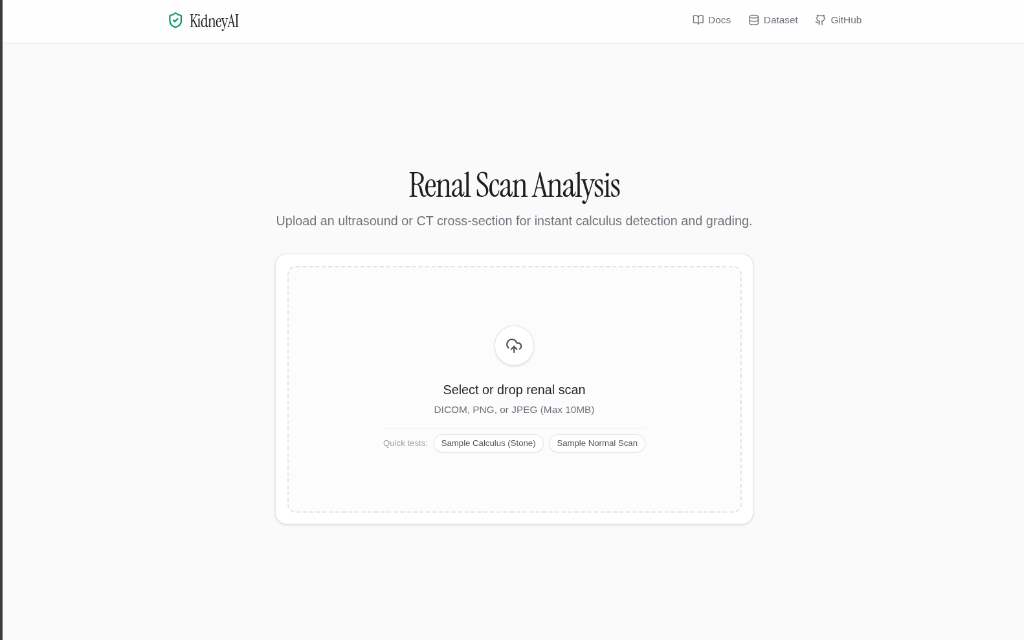
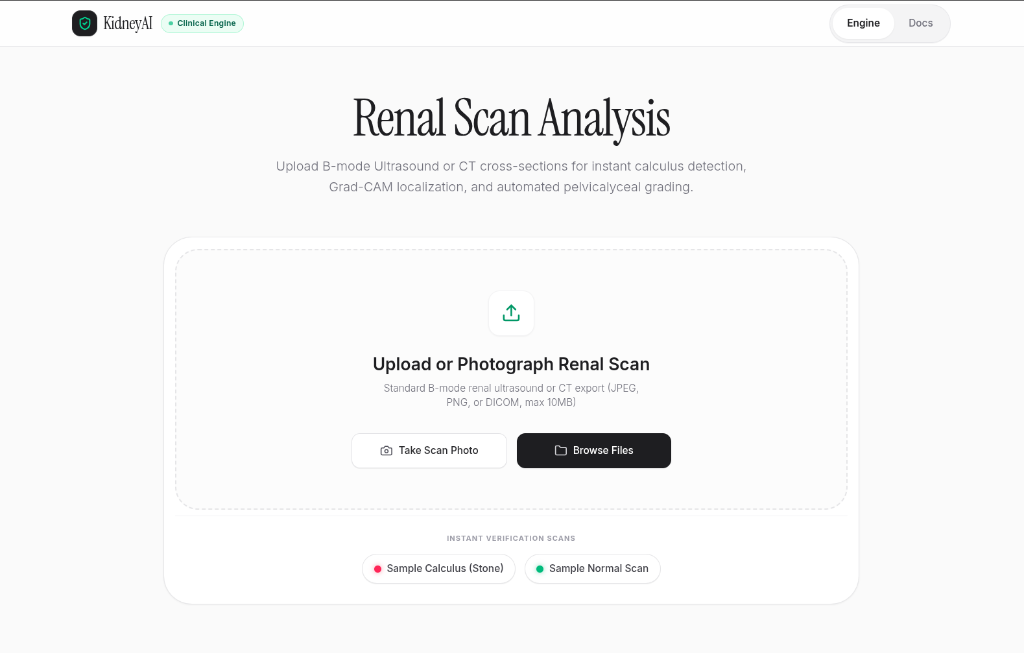
feat(ui/docs): update hero image, add model limitation notices to frontend engine & docs, connect live HF backend

diff --git a/frontend/src/components/DocsTab.tsx b/frontend/src/components/DocsTab.tsx
@@ -46,6 +46,32 @@ export const DocsTab: React.FC = () => {
           Learn how acoustic impedance physics, Out-of-Distribution modality guards, MobileNetV2
           bottlenecks, and Grad-CAM explainability unite to detect renal calculi with 98.87% accuracy.
         </p>
+
+        {/* Important Model Limitation Banner */}
+        <div className="mt-8 bg-amber-500/10 border border-amber-500/30 rounded-3xl p-5 sm:p-6 text-zinc-800 shadow-2xs">
+          <div className="flex items-start gap-3.5">
+            <div className="w-9 h-9 rounded-xl bg-amber-500/20 text-amber-700 flex items-center justify-center shrink-0 mt-0.5">
+              <AlertTriangle size={20} />
+            </div>
+            <div className="space-y-1.5 flex-1">
+              <div className="flex flex-wrap items-center gap-2">
+                <h4 className="text-sm font-semibold text-zinc-900">
+                  Critical Scope & Diagnostic Limitations
+                </h4>
+                <span className="px-2 py-0.5 rounded-full bg-amber-200/80 text-amber-900 text-[10px] font-mono font-medium">
+                  Binary Classifier Only (Stone vs. No Stone)
+                </span>
+                <span className="px-2 py-0.5 rounded-full bg-rose-100 text-rose-800 text-[10px] font-mono font-medium">
+                  Not a General Organ Scanner
+                </span>
+              </div>
+              <p className="text-xs text-zinc-600 leading-relaxed font-light">
+                NephroScan AI is trained <strong>strictly on two classes: Healthy Ultrasound vs. Kidney Stone Ultrasound</strong>. 
+                Because deep learning models operate under a <em>closed-world assumption</em>, the model <strong>cannot identify unknown objects</strong>, cysts, tumors, or other organs. Feeding it dark-mode laptop/terminal screenshots will cause false positive stone detections because white text characters mimic hyperechoic calculus reflections.
+              </p>
+            </div>
+          </div>
+        </div>
       </motion.div>
 
       {/* GitHub & Kaggle Repository Cards (Prominently placed in Docs) */}
@@ -540,6 +566,68 @@ npm run dev`}</pre>
               Access the clinical dashboard at <code className="bg-zinc-100 px-1.5 py-0.5 rounded text-zinc-800 font-mono">http://localhost:3000</code>.
             </p>
           </div>
+        </div>
+      </motion.section>
+
+      {/* SECTION 6: Model Limitations & Out-Of-Distribution (OOD) Behavior */}
+      <motion.section variants={fadeUp} className="mb-16">
+        <div className="flex items-center gap-2 mb-2 text-rose-600 font-mono text-xs tracking-wider uppercase font-semibold">
+          <span>06</span>
+          <span>•</span>
+          <span>Failure Modes & Limitations</span>
+        </div>
+        <h2 className="text-3xl sm:text-4xl font-serif text-zinc-900 pb-3 border-b border-zinc-200 mb-6">
+          6. Model Limitations & Out-Of-Distribution (OOD) Failure Modes
+        </h2>
+
+        <p className="text-sm sm:text-base text-zinc-700 font-light leading-relaxed mb-6">
+          In clinical machine learning, communicating what a model <strong>cannot</strong> do is as vital as publishing its accuracy metrics.
+          NephroScan AI is an assistive research CADe prototype with explicit operational boundaries:
+        </p>
+
+        <div className="grid grid-cols-1 md:grid-cols-3 gap-4 mb-8">
+          <div className="bg-white p-6 rounded-3xl border border-zinc-200/90 shadow-2xs">
+            <div className="w-10 h-10 rounded-xl bg-amber-50 text-amber-700 flex items-center justify-center mb-3">
+              <AlertTriangle size={20} />
+            </div>
+            <h4 className="font-semibold text-zinc-900 mb-2 text-sm">Binary Closed-World Scope</h4>
+            <p className="text-xs text-zinc-600 font-light leading-relaxed">
+              Trained exclusively to separate <em>Calculus</em> from <em>Normal Renal Ultrasound</em>. It has never seen other abdominal organs (liver, gallbladder, spleen), and lacks open-world anomaly rejection.
+            </p>
+          </div>
+
+          <div className="bg-white p-6 rounded-3xl border border-zinc-200/90 shadow-2xs">
+            <div className="w-10 h-10 rounded-xl bg-rose-50 text-rose-700 flex items-center justify-center mb-3">
+              <ShieldAlert size={20} />
+            </div>
+            <h4 className="font-semibold text-zinc-900 mb-2 text-sm">Laptop Screenshot Artifacts</h4>
+            <p className="text-xs text-zinc-600 font-light leading-relaxed">
+              Dark-mode terminals and IDEs feature bright white text against black backdrops. To convolutional filters, this high-contrast gradient pattern is mathematically identical to hyperechoic calculi, triggering false positives.
+            </p>
+          </div>
+
+          <div className="bg-white p-6 rounded-3xl border border-zinc-200/90 shadow-2xs">
+            <div className="w-10 h-10 rounded-xl bg-emerald-50 text-emerald-700 flex items-center justify-center mb-3">
+              <ShieldCheck size={20} />
+            </div>
+            <h4 className="font-semibold text-zinc-900 mb-2 text-sm">Modality Guard Protection</h4>
+            <p className="text-xs text-zinc-600 font-light leading-relaxed">
+              General colorful photos (beaches, wallpapers, landscapes) are intercepted by acoustic chromaticity filters (mean saturation &gt; 0.22, RGB divergence &gt; 25.0) and rejected before reaching the CNN.
+            </p>
+          </div>
+        </div>
+
+        <div className="bg-zinc-900 text-zinc-200 rounded-3xl p-6 sm:p-8 font-light text-xs sm:text-sm leading-relaxed border border-zinc-800">
+          <h4 className="font-semibold text-white mb-2 text-base flex items-center gap-2">
+            <BookOpen size={18} className="text-emerald-400" />
+            Key Clinical Takeaway for Evaluators
+          </h4>
+          <p className="mb-3 text-zinc-300">
+            Never feed non-medical computer screenshots, non-renal CTs, or arbitrary camera photos to the model. Always inspect the <strong>Grad-CAM visual explanation</strong>: in an authentic scan, the activation focus must map anatomically to the renal pelvis, calyces, or parenchyma.
+          </p>
+          <p className="text-zinc-400 text-xs">
+            NephroScan AI is not an FDA 510(k) cleared diagnostic device. Output must always be interpreted in conjunction with patient symptoms, laboratory analysis, and expert physician evaluation.
+          </p>
         </div>
       </motion.section>
     </motion.div>

diff --git a/frontend/src/components/EngineTab.tsx b/frontend/src/components/EngineTab.tsx
@@ -52,7 +52,7 @@ export const EngineTab: React.FC = () => {
   const fileInputRef = useRef<HTMLInputElement>(null);
   const cameraInputRef = useRef<HTMLInputElement>(null);
 
-  const API_BASE = process.env.NEXT_PUBLIC_API_URL || "http://localhost:8000";
+  const API_BASE = process.env.NEXT_PUBLIC_API_URL || "https://bappa-ai-kidney-stone-detection.hf.space";
 
   // Synthesized tactile audio cue
   const playSound = (type: "click" | "resolve") => {
@@ -726,6 +726,46 @@ validated by a board-certified radiologist or urologist.
             </motion.div>
           )}
         </AnimatePresence>
+
+        {/* Model Scope & Diagnostic Limitations Box */}
+        <motion.div
+          variants={fadeUp}
+          className="mt-8 bg-amber-500/10 border border-amber-500/30 rounded-3xl p-5 sm:p-6 text-zinc-800 shadow-2xs"
+        >
+          <div className="flex items-start gap-3.5">
+            <div className="w-9 h-9 rounded-xl bg-amber-500/20 text-amber-700 flex items-center justify-center shrink-0 mt-0.5">
+              <AlertTriangle size={20} />
+            </div>
+            <div className="space-y-2 flex-1">
+              <div className="flex flex-wrap items-center gap-2">
+                <h4 className="text-sm font-semibold text-zinc-900">
+                  Critical Model Scope & Limitations Advisory
+                </h4>
+                <span className="px-2 py-0.5 rounded-full bg-amber-200/80 text-amber-900 text-[10px] font-mono font-medium">
+                  Binary Classification Only
+                </span>
+                <span className="px-2 py-0.5 rounded-full bg-zinc-200/80 text-zinc-700 text-[10px] font-mono font-medium">
+                  Not a General Organ Scanner
+                </span>
+              </div>
+              <p className="text-xs text-zinc-600 leading-relaxed font-light">
+                <strong>Closed-World Binary Assumption:</strong> This deep learning network is specifically trained to classify 
+                <strong> only two states</strong>: <em>Healthy Kidney Ultrasound</em> vs. <em>Renal Calculus (Kidney Stone)</em>. 
+                It is <strong>not</strong> a broad medical vision model and cannot detect renal cysts, oncocytomas, carcinoma, hydronephrosis etiologies, or general abdominal organs.
+              </p>
+              <div className="grid grid-cols-1 sm:grid-cols-2 gap-2 pt-1 text-[11px] text-zinc-600 font-light">
+                <div className="bg-white/85 p-3 rounded-2xl border border-amber-200/70 shadow-2xs">
+                  <span className="font-semibold text-rose-700 block mb-0.5">⚠ Dark Laptop / Terminal False Positives:</span>
+                  Screenshots of code editors, terminals, or dark-mode operating systems with bright white text characters mimic hyperechoic calcium reflections. Because the model has no concept of &quot;computer screens&quot;, it will erroneously output a 100% stone detection.
+                </div>
+                <div className="bg-white/85 p-3 rounded-2xl border border-amber-200/70 shadow-2xs">
+                  <span className="font-semibold text-emerald-700 block mb-0.5">🛡 Automated Photo Interception:</span>
+                  Colorful photographs (nature wallpapers, beaches, human portraits) are automatically intercepted and rejected by the built-in acoustic modality guard before classification.
+                </div>
+              </div>
+            </div>
+          </div>
+        </motion.div>
       </motion.div>
     </motion.div>
   );

diff --git a/README.md b/README.md
@@ -16,10 +16,11 @@
 [![Kaggle Dataset](https://img.shields.io/badge/Kaggle-Dataset-20BEFF.svg?logo=kaggle&logoColor=white)](https://www.kaggle.com/datasets/jayaprakashpondy/kidney-cancer-image)
 
 <p align="center">
-  <a href="https://kidneystonedetection.vercel.app"><strong>🌐 Live Clinical Web App (Vercel)</strong></a> •
-  <a href="https://huggingface.co/spaces/bappa-ai/kidney-stone-detection"><strong>🤗 Live Hugging Face Space</strong></a> •
-  <a href="https://bappa-ai-kidney-stone-detection.hf.space"><strong>⚡ Cloud Model API</strong></a> •
-  <a href="https://www.kaggle.com/datasets/jayaprakashpondy/kidney-cancer-image"><strong>📊 Kaggle Dataset</strong></a>
+  <a href="https://kidneystonedetection.vercel.app"><strong>🌐 Primary Live App</strong></a> •
+  <a href="https://kidney-stone-detection-ai.vercel.app"><strong>🌐 Alternate Domain 1</strong></a> •
+  <a href="https://nephroscan-ai.vercel.app"><strong>🌐 Alternate Domain 2</strong></a> •
+  <a href="https://huggingface.co/spaces/bappa-ai/kidney-stone-detection"><strong>🤗 HF Space</strong></a> •
+  <a href="https://bappa-ai-kidney-stone-detection.hf.space"><strong>⚡ Cloud Model API</strong></a>
 </p>
 
 ---
@@ -383,7 +384,7 @@ Because the backend container is self-contained with trained model weights:
 
 > [!IMPORTANT]
 > **Summary at a Glance:**  
-> NephroScan AI is trained **exclusively on B-mode renal ultrasound scans**. Because deep learning classifiers operate on a **closed-world assumption**, understanding how the AI treats non-medical images (wallpapers, photos, laptop screenshots) is essential for accurate evaluation.
+> NephroScan AI is trained **strictly on two specific classes: B-mode renal ultrasound with Stone vs. No Stone**. It is **not** a broad/general-purpose organ scanner and cannot detect cysts, tumors, or other conditions. Because deep learning models operate under a **closed-world assumption**, understanding how the AI treats non-medical images (laptop screenshots, wallpapers) is essential to avoid misinterpreting failures or false positives.
 
 ```
 ┌────────────────────────────────────────────────────────────────────────────────────────┐
@@ -405,10 +406,10 @@ Because the backend container is self-contained with trained model weights:
 
 ### 🔍 Plain-English Explanation: Why Does This Happen?
 
-1. **The "Closed-World" Rule (No "Other" Class):**
-   * The neural network was trained on two medical classes: `Class 0 (Normal Ultrasound)` vs. `Class 1 (Kidney Stone Ultrasound)`.
-   * The model has **never seen** a code editor, terminal, desktop wallpaper, or beach.
-   * Because it uses a binary Sigmoid function ($0\%$ to $100\%$), it is mathematically forced to pick either *Stone* or *No Stone*. It cannot output *"This is a computer screen"*.
+1. **The "Closed-World" Binary Rule (Only 2 Classes, Not a Broad Scanner):**
+   * The neural network was trained on exactly two specific classes: `Class 0 (Normal Ultrasound)` vs. `Class 1 (Kidney Stone Ultrasound)`.
+   * It is **not a broad/general medical vision model**—it cannot recognize liver, gallbladder, cysts, tumors, or non-medical objects.
+   * The model ends in a binary Sigmoid mathematical formula ($0\%$ to $100\%$). It is mathematically forced to classify every input into either *Stone* or *No Stone*. It cannot say *"This is a computer screen"* or *"This is another disease"*.
 
 2. **Why Dark Laptop / Terminal Screenshots Show "Stone (100%)":**
    * In clinical ultrasound, a kidney stone appears as a **bright white spot (hyperechoic reflector)** surrounded by a **dark background (acoustic shadow)**.
@@ -420,9 +421,9 @@ Because the backend container is self-contained with trained model weights:
    * However, dark-mode terminal screens have almost zero color, which allows them to slip past simple color filters.
 
 ### 📋 Recommended Best Practices
-* **Upload Authentic Scans:** Only test with genuine B-mode kidney ultrasound images or DICOM exports.
+* **Upload Authentic Scans Only:** Only test with genuine B-mode kidney ultrasound images or DICOM exports.
 * **Inspect the Grad-CAM Heatmap:** When an image is classified, look at the visual heatmap. In a genuine medical scan, the heat will localize to kidney anatomy. On a screenshot, the heat will highlight text lines or UI borders.
-* **Clinical Verification:** This software is a CADe research prototype and must always be corroborated by a licensed clinician or radiologist.
+* **Clinical Verification:** This software is an assistive research CADe prototype and is **not an autonomous or 100% infallible medical diagnostic tool**. All findings must always be corroborated by a licensed clinician or radiologist.
 
 ---
 
